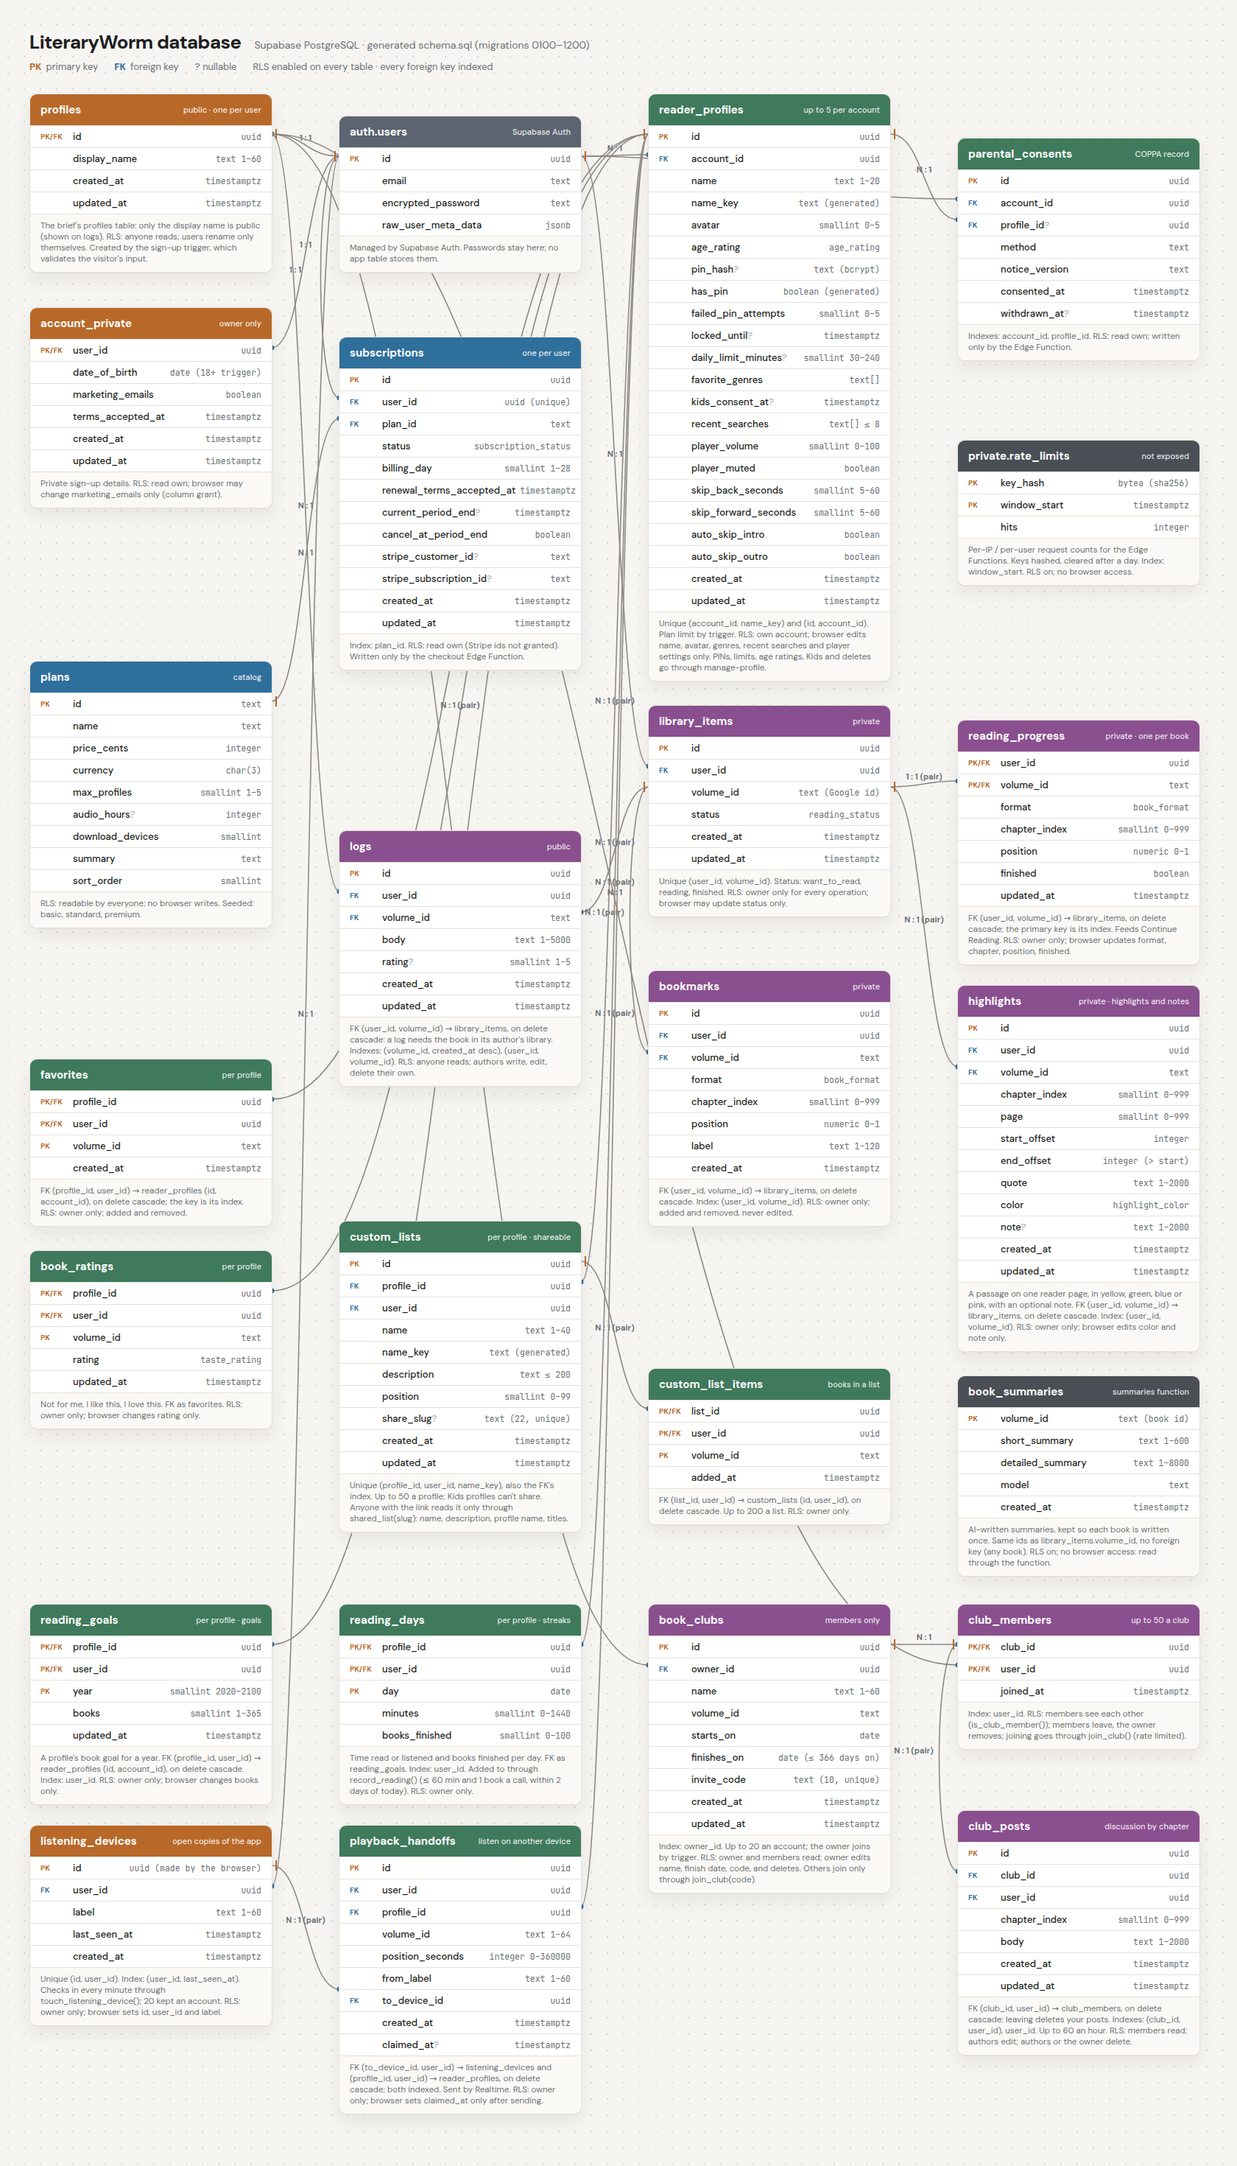
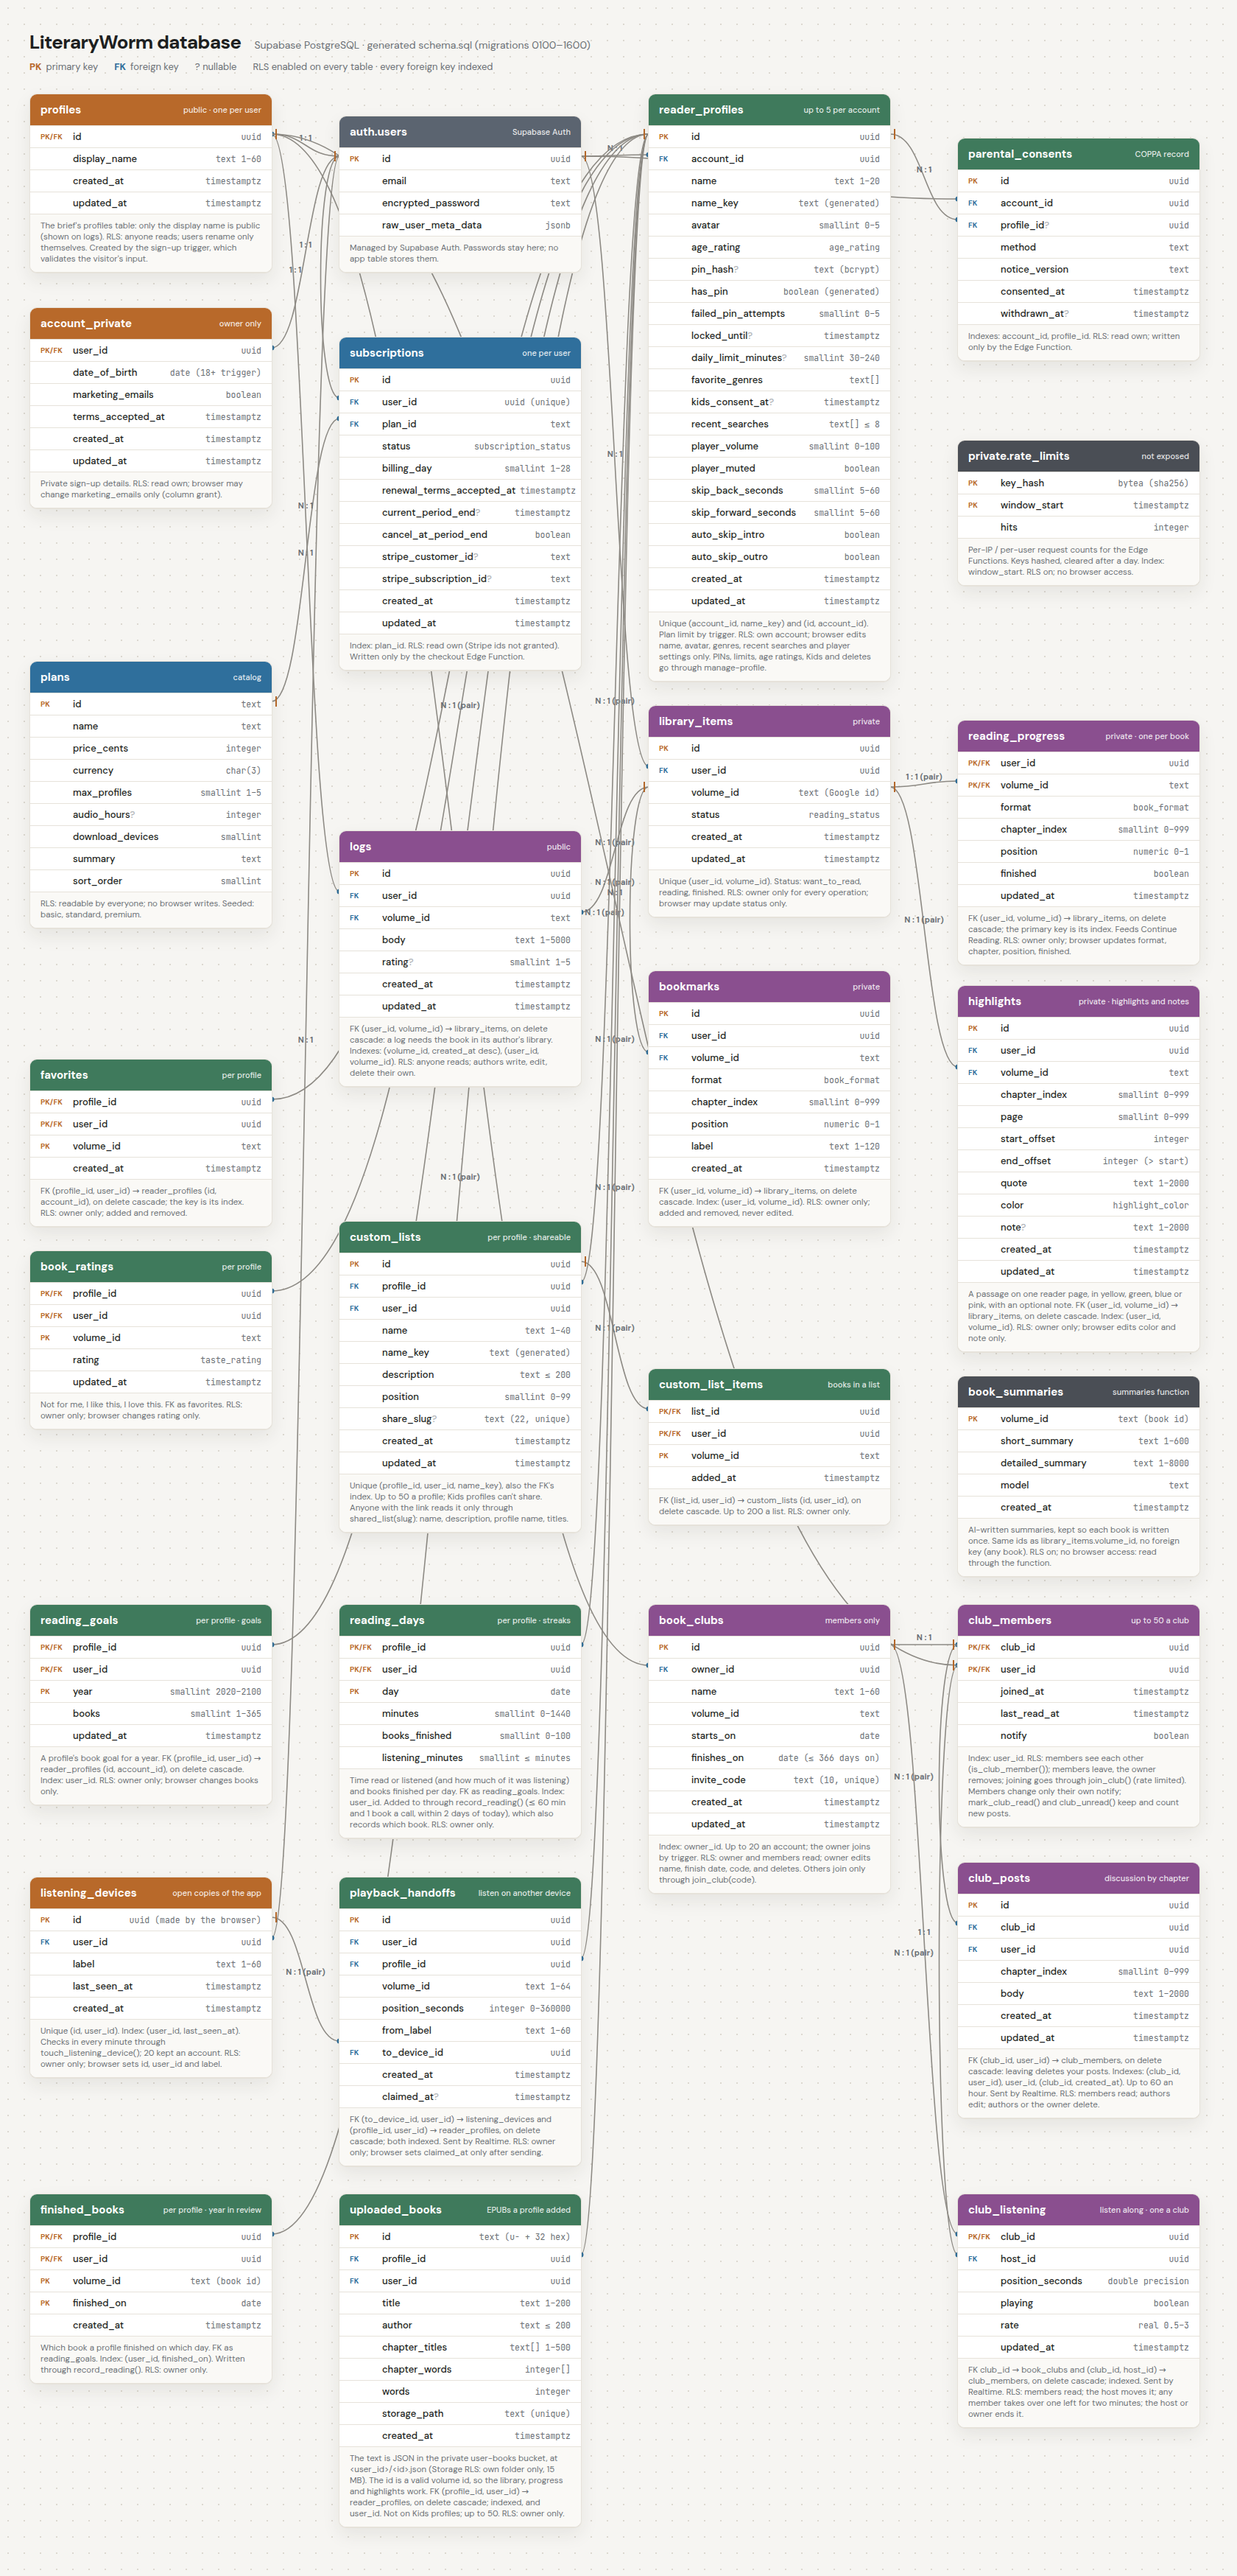
Schema and ERD: Phases 14-21
schema.sql regenerated from the migrations (0100-1600). The ERD adds
finished_books, uploaded_books and club_listening, the new
reading_days.listening_minutes and club_members.last_read_at / notify
columns, their relations, and notes on the user-books bucket and
Realtime; drawsql.png re-rendered with no overlapping tables.

Changed region(s): [[0.0, 0.0, 0.9905, 0.9905]]

diff --git a/docs/erd/erd.html b/docs/erd/erd.html
@@ -87,7 +87,7 @@
 
     <script>
       // ---- Keep in sync with schema.sql -------------------------------------------------
-      const subtitle = "Supabase PostgreSQL · generated schema.sql (migrations 0100–1200)";
+      const subtitle = "Supabase PostgreSQL · generated schema.sql (migrations 0100–1600)";
 
       const colors = {
         auth: "#5b6470", account: "#b8692a", billing: "#2f6f9c", household: "#3f7a5c",
@@ -358,8 +358,9 @@
             ["pk", "day", "date"],
             ["", "minutes", "smallint 0–1440"],
             ["", "books_finished", "smallint 0–100"],
+            ["", "listening_minutes", "smallint ≤ minutes"],
           ],
-          note: "Time read or listened and books finished per day. FK as reading_goals. Index: user_id. Added to through record_reading() (≤ 60 min and 1 book a call, within 2 days of today). RLS: owner only.",
+          note: "Time read or listened (and how much of it was listening) and books finished per day. FK as reading_goals. Index: user_id. Added to through record_reading() (≤ 60 min and 1 book a call, within 2 days of today), which also records which book. RLS: owner only.",
         },
         {
           id: "book_clubs", color: colors.reading, x: 840, y: 2050, sub: "members only",
@@ -382,11 +383,13 @@
             ["pk fk", "club_id", "uuid"],
             ["pk fk", "user_id", "uuid"],
             ["", "joined_at", "timestamptz"],
+            ["", "last_read_at", "timestamptz"],
+            ["", "notify", "boolean"],
           ],
-          note: "Index: user_id. RLS: members see each other (is_club_member()); members leave, the owner removes; joining goes through join_club() (rate limited).",
+          note: "Index: user_id. RLS: members see each other (is_club_member()); members leave, the owner removes; joining goes through join_club() (rate limited). Members change only their own notify; mark_club_read() and club_unread() keep and count new posts.",
         },
         {
-          id: "club_posts", color: colors.reading, x: 1260, y: 2330, sub: "discussion by chapter",
+          id: "club_posts", color: colors.reading, x: 1260, y: 2400, sub: "discussion by chapter",
           cols: [
             ["pk", "id", "uuid"],
             ["fk", "club_id", "uuid"],
@@ -396,10 +399,10 @@
             ["", "created_at", "timestamptz"],
             ["", "updated_at", "timestamptz"],
           ],
-          note: "FK (club_id, user_id) → club_members, on delete cascade: leaving deletes your posts. Indexes: (club_id, user_id), user_id. Up to 60 an hour. RLS: members read; authors edit; authors or the owner delete.",
+          note: "FK (club_id, user_id) → club_members, on delete cascade: leaving deletes your posts. Indexes: (club_id, user_id), user_id, (club_id, created_at). Up to 60 an hour. Sent by Realtime. RLS: members read; authors edit; authors or the owner delete.",
         },
         {
-          id: "listening_devices", color: colors.account, x: 0, y: 2350, sub: "open copies of the app",
+          id: "listening_devices", color: colors.account, x: 0, y: 2420, sub: "open copies of the app",
           cols: [
             ["pk", "id", "uuid (made by the browser)"],
             ["fk", "user_id", "uuid"],
@@ -410,7 +413,7 @@
           note: "Unique (id, user_id). Index: (user_id, last_seen_at). Checks in every minute through touch_listening_device(); 20 kept an account. RLS: owner only; browser sets id, user_id and label.",
         },
         {
-          id: "playback_handoffs", color: colors.household, x: 420, y: 2350, sub: "listen on another device",
+          id: "playback_handoffs", color: colors.household, x: 420, y: 2420, sub: "listen on another device",
           cols: [
             ["pk", "id", "uuid"],
             ["fk", "user_id", "uuid"],
@@ -423,6 +426,45 @@
             ["", "claimed_at", "timestamptz", true],
           ],
           note: "FK (to_device_id, user_id) → listening_devices and (profile_id, user_id) → reader_profiles, on delete cascade; both indexed. Sent by Realtime. RLS: owner only; browser sets claimed_at only after sending.",
+        },
+        {
+          id: "finished_books", color: colors.household, x: 0, y: 2850, sub: "per profile · year in review",
+          cols: [
+            ["pk fk", "profile_id", "uuid"],
+            ["pk fk", "user_id", "uuid"],
+            ["pk", "volume_id", "text (book id)"],
+            ["pk", "finished_on", "date"],
+            ["", "created_at", "timestamptz"],
+          ],
+          note: "Which book a profile finished on which day. FK as reading_goals. Index: (user_id, finished_on). Written through record_reading(). RLS: owner only.",
+        },
+        {
+          id: "uploaded_books", color: colors.household, x: 420, y: 2850, sub: "EPUBs a profile added",
+          cols: [
+            ["pk", "id", "text (u- + 32 hex)"],
+            ["fk", "profile_id", "uuid"],
+            ["fk", "user_id", "uuid"],
+            ["", "title", "text 1–200"],
+            ["", "author", "text ≤ 200"],
+            ["", "chapter_titles", "text[] 1–500"],
+            ["", "chapter_words", "integer[]"],
+            ["", "words", "integer"],
+            ["", "storage_path", "text (unique)"],
+            ["", "created_at", "timestamptz"],
+          ],
+          note: "The text is JSON in the private user-books bucket, at <user_id>/<id>.json (Storage RLS: own folder only, 15 MB). The id is a valid volume id, so the library, progress and highlights work. FK (profile_id, user_id) → reader_profiles, on delete cascade; indexed, and user_id. Not on Kids profiles; up to 50. RLS: owner only.",
+        },
+        {
+          id: "club_listening", color: colors.reading, x: 1260, y: 2850, sub: "listen along · one a club",
+          cols: [
+            ["pk fk", "club_id", "uuid"],
+            ["fk", "host_id", "uuid"],
+            ["", "position_seconds", "double precision"],
+            ["", "playing", "boolean"],
+            ["", "rate", "real 0.5–3"],
+            ["", "updated_at", "timestamptz"],
+          ],
+          note: "FK club_id → book_clubs and (club_id, host_id) → club_members, on delete cascade; indexed. Sent by Realtime. RLS: members read; the host moves it; any member takes over one left for two minutes; the host or owner ends it.",
         },
       ];
 
@@ -454,6 +496,10 @@
         ["listening_devices", "user_id", "auth.users", "id", "N : 1"],
         ["playback_handoffs", "to_device_id", "listening_devices", "id", "N : 1 (pair)"],
         ["playback_handoffs", "profile_id", "reader_profiles", "id", "N : 1 (pair)"],
+        ["finished_books", "profile_id", "reader_profiles", "id", "N : 1 (pair)"],
+        ["uploaded_books", "profile_id", "reader_profiles", "id", "N : 1 (pair)"],
+        ["club_listening", "club_id", "book_clubs", "id", "1 : 1"],
+        ["club_listening", "host_id", "club_members", "user_id", "N : 1 (pair)"],
       ];
       // -----------------------------------------------------------------------------------
 
